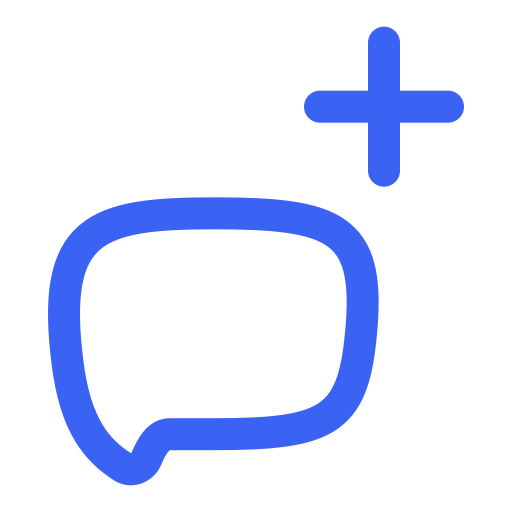
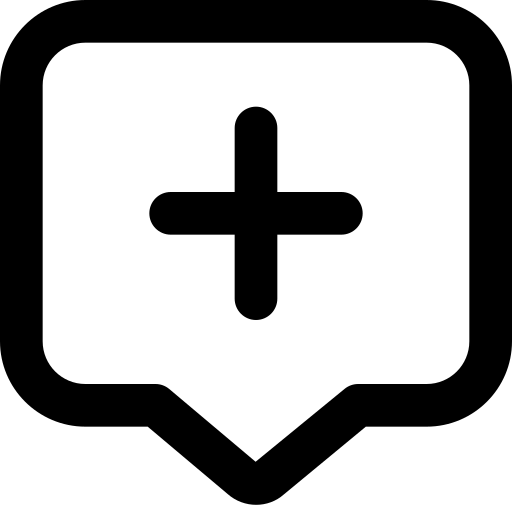
style: 아이콘 이미지 변경

diff --git a/src/components/layout/Sidebar.js b/src/components/layout/Sidebar.js
@@ -3,7 +3,7 @@ import { Link } from 'react-router-dom';
 import './Sidebar.css';
 import newChatIcon from 'assets/images/newchatting.png';
 import searchIcon from 'assets/images/search.png';
-import libraryIcon from 'assets/images/library.png';
+import repositoryIcon from 'assets/images/repository.png';
 import loginIcon from 'assets/images/login.png';
 
 // 임시 데이터 (나중에 실제 API 응답으로 대체될 부분)
@@ -46,7 +46,7 @@ function Sidebar({ isOpen, onToggle }) {
           <span className="button-text">채팅 검색</span>
         </Link>
         <Link to="/repository" className="sidebar-button">
-          <img src={libraryIcon} alt="맛집 보관함" className="button-icon-img" />
+          <img src={repositoryIcon} alt="맛집 보관함" className="button-icon-img" />
           <span className="button-text">맛집 보관함</span>
         </Link>
       </div>
